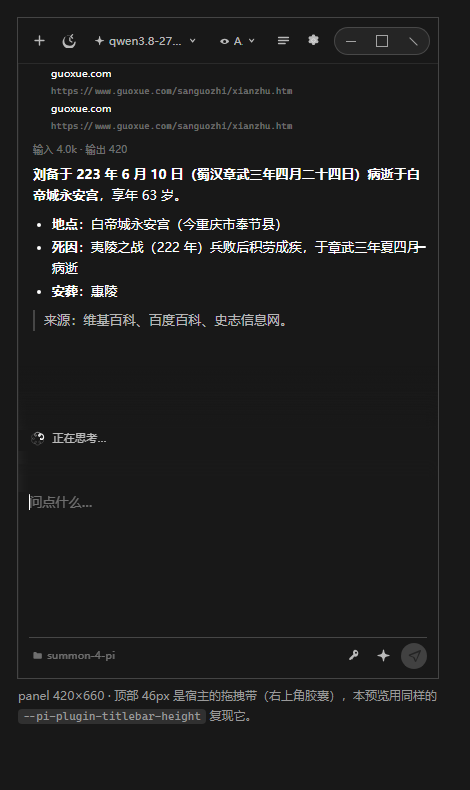
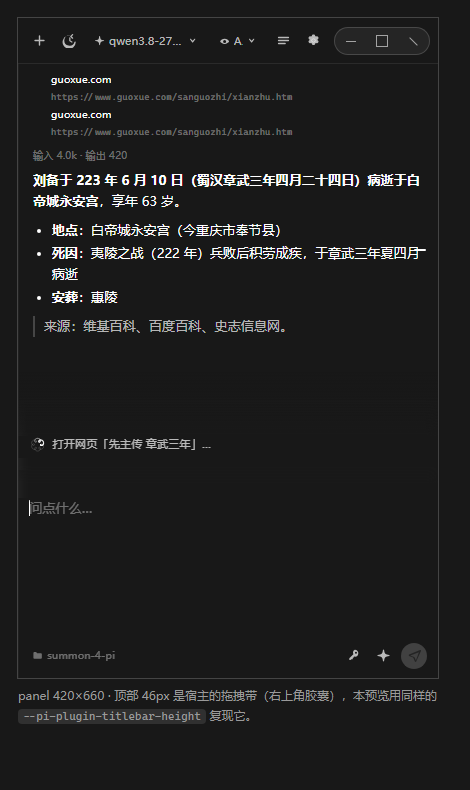
Show what the agent is doing while it runs, not just 'thinking'
Agent mode runs in the main window, but the widget had only a generic status line:
during a tool call it said '正在思考…' and the timeline drew the running tool as if
it had already finished.

Three fixes, in order of what the user sees:

- statusline now names the action: '正在调用 tavily-search：<args>…' from the live
  tool row, or '正在思考：<latest thinking snippet>…' when only reasoning has landed.
  When a tool sits unchanged past 20s it says where the approval card is, because
  that card exists only in the main window and the plugin has no way to list or
  answer pending approvals (agent/askTool/resolve answers, it cannot enumerate).
- stepsFromMessages kept the tool status verbatim instead of collapsing everything
  that is not an error into success, so a tool_start row renders as running: primary
  label, accent marker, '正在调用 · <args>'.
- traceStepKey gave every live step the key 'live', so a running tool and the
  thinking row above it collided and overwrote each other in the keyed diff. That is
  the 'the thinking row disappeared when the tool started' report. The key carries
  kind/round/label now.

Live-ness comes from the host writing rows as it goes (tool_start then tool_end),
polled at 400ms while a turn runs and 1.5s when idle - there is no progress event to
subscribe to (the plugin event set is four fixed names, none inside a turn).

Changed region(s): [[0.0596, 0.0911, 0.8936, 0.4253], [0.0596, 0.5468, 0.417, 0.5772], [0.0596, 0.6076, 0.1787, 0.6684]]

diff --git a/plugins/local.summon-chat/renderer/index.html b/plugins/local.summon-chat/renderer/index.html
@@ -1027,6 +1027,10 @@ details.think > .body {
 .trace-step.ok .si { color: var(--text-disabled); }
 .trace-step.err .si { color: var(--error); }
 .trace-step.err .lb { color: var(--error); }
+/* 正在跑的那一行：文字用主色（其余步骤是次要色），一眼能看出「现在卡在这一步」。 */
+.trace-step.running .lb { color: var(--text-primary); }
+.trace-step.running .sub { color: var(--text-secondary); }
+.trace-step.running .si { color: var(--accent); }
 /* 源包 sprite 里的图标是填充型（path 自带 fill="currentColor"），默认会吃 CSS 的
    `color`，跑完一条就整排绿勾，比正文还抢眼。所以这里统一压成与其它图标同一个灰，
    只有出错那一行保留红色。 */
@@ -3080,9 +3084,11 @@ window.PiCurve = { create: create };
 
         var HEARTBEAT_MS = 2000;
         var AGENT_POLL_MS = 1500;
-        // 轮次运行中的节奏。见 renderTranscript 下方 setAgentPollingRate 的说明：
-        // 工具行是「边跑边落盘」的，1.5s 一次会让它们一顿一顿地冒出来。
-        var AGENT_POLL_FAST_MS = 600;
+        // 轮次运行中的节奏。工具行是「边跑边落盘」的，1.5s 一次会让它们一顿一顿地冒出来；
+        // 用户要的是「发送后立刻能看到它在思考 / 在调什么工具」，所以跑着的时候压到 400ms
+        // —— 每次只是一个 `session/get`（read 级、不弹确认框），代价可以接受。
+        // 轮次一停就退回 1.5s，不白烧 CPU。
+        var AGENT_POLL_FAST_MS = 400;
         var PROGRESS_POLL_MS = 500;
 
         // 设计 §12.1 / 档位标签：选项里只放档位词，含义放 title。
@@ -3545,6 +3551,63 @@ window.PiCurve = { create: create };
             $("statusAnim").appendChild(statusSpinner);
           }
         }
+
+        /**
+         * Agent 模式的状态行：**说清楚它此刻在干什么**，而不是一律「正在思考…」。
+         *
+         * 宿主没有把「实时运行状态」给插件（`plugins.broadcastEvent` 的全集只有四个：
+         * appearance / modelChanged / turnEnded / workspace，**没有** turn 内的事件，
+         * 也没有「列出待批授权」的操作）。所以这里用的是宿主**边跑边落盘**的那份
+         * transcript：工具行在 tool_start 就以 `running` 落盘、tool_end 再补结果
+         * （`renderKeeyed` 的注释里记着这条）。刷新够快时，它就是实时的。
+         *
+         * 三个信息：最近的思考片段、正在调用的工具、以及「可能正在等授权」。
+         */
+        function renderAgentRunningStatus(t) {
+          var msgs = (t && t.messages) || [];
+          var steps = stepsFromMessages(msgs, null, true);
+          var last = steps.length ? steps[steps.length - 1] : null;
+          var stalledMs = Date.now() - (agent.lastChangeAt || Date.now());
+
+          if (last && last.status === "running" && last.kind === "tool") {
+            var name = last.label || "工具";
+            // 时间线那一行的 sub 已经带了「正在调用 · 」前缀，这里只取参数部分，
+            // 免得拼出「正在调用 X：正在调用 · …」。
+            var argText = String(last.sub || "").replace(/^正在调用\s*·\s*/, "").replace(/^正在调用…$/, "");
+            // 停留超过 20s 且一行都没新增：最可能的原因是宿主要在**主窗口**弹授权卡片，
+            // 而那张卡片悬浮窗看不到、也答不了。与其让它看起来卡死，不如直接指路。
+            if (stalledMs > 20000) {
+              setStatus("「" + name + "」还没有结果 —— 如果主窗口弹出了授权卡片，去那里点允许（悬浮窗看不到那张卡片）");
+            } else {
+              setStatus("正在调用 " + name + (argText ? "：" + argText.slice(0, 60) : "") + "…");
+            }
+            return;
+          }
+          if (last && last.status === "running" && last.kind === "search") {
+            setStatus(last.label ? last.label + "…" : "正在联网检索…");
+            return;
+          }
+          // 还没有工具、只有思考（或者连思考都还没落盘）。
+          var thinking = lastThinkingText(msgs);
+          if (thinking) {
+            setStatus("正在思考：" + thinking.slice(0, 80) + (thinking.length > 80 ? "…" : ""));
+            return;
+          }
+          setStatus(stalledMs > 45000
+            ? "仍在进行。若长时间无变化，可能是在等主窗口的操作，或这一轮的输出还没落盘"
+            : "Agent 正在思考…");
+        }
+
+        /** 最新一条思考文本（宿主把 thinking 放在同一条消息里）。 */
+        function lastThinkingText(messages) {
+          for (var i = messages.length - 1; i >= 0; i--) {
+            var m = messages[i];
+            if (m && typeof m.thinking === "string" && m.thinking) {
+              return m.thinking.replace(/\s+/g, " ").trim();
+            }
+          }
+          return "";
+        }
         function stopProgress() {
           // 快捷对话的状态行现在由 pollQuickTurn 全权负责（它每 400ms 读插件的
           // 真实相位，并且在拿到结果时收尾），所以这里只剩一个幂等的收尾动作。
@@ -4006,7 +4069,7 @@ window.PiCurve = { create: create };
         }
         /**
          * 一行步骤。`openIds` 是这一组上次渲染时被展开的行 —— 重画时把展开状态
-         * 还回去，否则每 0.6s 一次轮询都会把用户刚点开的那一行合上。
+         * 还回去，否则每 0.4s 一次轮询都会把用户刚点开的那一行合上。
          * `marker` 是**复用的加载动效节点**：正在跑的那一行换行时把同一个节点
          * 搬过去，动画不会从头开始。
          */
@@ -4096,9 +4159,21 @@ window.PiCurve = { create: create };
          * 其余步骤用「语义 + 轮次」做键 —— **不能用 label**：思考那一行的 label
          * 就是内容摘要，内容一变键就变，用户刚展开的那一行会被合上。
          */
+        /**
+         * 步骤的稳定键 —— 重画时用它把展开状态还回去。
+         *
+         * ⚠ `step.live` 不能一律返回 "live"：一轮里会有**很多** live 步骤
+         * （当前在跑的思考、正在调用的工具…），它们会撞在同一个键上，
+         * 于是 keyed 渲染把它们当成同一条互相覆盖 —— 表现就是「正在调用工具时，
+         * 思考那一行被工具那行顶掉」。带上 kind / round / 标签才唯一。
+         */
         function traceStepKey(step) {
-          if (step.live) return "live";
-          return [step.kind, step.round == null ? "" : step.round, step.sub || ""].join("~");
+          return [
+            step.live ? "live" : "step",
+            step.kind || "",
+            step.round == null ? "" : step.round,
+            step.label || "",
+          ].join("~");
         }
         /**
          * 把一次提问处理的全部痕迹拼成一条可折叠的时间线。
@@ -4169,10 +4244,19 @@ window.PiCurve = { create: create };
               if (t.durationMs) sub = (sub ? sub + " · " : "") + formatDuration(t.durationMs);
               steps.push({
                 kind: "tool",
-                status: t.status === "error" || t.status === "denied" ? "error" : "success",
+                // ⚠ 以前这里只有 error/denied → error、其余 → success，所以**正在调用**
+                // 的工具会被画成「已完成」。宿主的 transcript 在 tool_start 就以
+                // `running` 落盘、tool_end 再补结果，这个状态必须原样保留，
+                // 否则用户看到的是「已经跑完了」而其实还在等（等授权时尤其误导）。
+                status: t.status === "error" || t.status === "denied" ? "error"
+                  : (t.status === "running" ? "running" : "success"),
                 tookMs: t.durationMs || 0,
                 label: t.name || "工具",
-                sub: sub,
+                // 正在跑的行说「正在调用」，不留白让人以为卡住了（状态行另外还会说一次，
+                // 那是它自己的句子，两者不重复）。
+                sub: t.status === "running"
+                  ? (sub ? "正在调用 · " + sub : "正在调用…")
+                  : sub,
                 args: t.args, result: t.result, urls: urls.slice(0, 8),
               });
             }
@@ -5369,12 +5453,9 @@ window.PiCurve = { create: create };
               setAgentPollingRate(status === "running");
               if (status === "running") {
                 // 悬浮窗看不到也答不了宿主的授权卡片（插件事件目录里没有权限事件，
-                // 也没有「列出待批请求」的操作），所以长时间没变化时明确告诉用户
-                // 该去哪儿处理，而不是让它看起来只是卡住了。
-                var stalled = Date.now() - (agent.lastChangeAt || Date.now());
-                setStatus(stalled > 45000
-                  ? "仍在进行。若长时间无变化，可能在等主窗口的授权卡片 —— 可在 ☰ 里把「权限模式」改成「允许编辑」或「全自动」"
-                  : "正在思考…");
+                // 也没有「列出待批请求」的操作），所以状态行要说清**此刻在干什么**，
+                // 并在疑似等授权时明确指路 —— 见 renderAgentRunningStatus。
+                renderAgentRunningStatus(res.transcript);
               } else if (!busy) setStatus("");
             })
             .catch(function () {});

diff --git a/plugins/local.summon-chat/renderer/renderer.template.html b/plugins/local.summon-chat/renderer/renderer.template.html
@@ -576,6 +576,10 @@ details.think > .body {
 .trace-step.ok .si { color: var(--text-disabled); }
 .trace-step.err .si { color: var(--error); }
 .trace-step.err .lb { color: var(--error); }
+/* 正在跑的那一行：文字用主色（其余步骤是次要色），一眼能看出「现在卡在这一步」。 */
+.trace-step.running .lb { color: var(--text-primary); }
+.trace-step.running .sub { color: var(--text-secondary); }
+.trace-step.running .si { color: var(--accent); }
 /* 源包 sprite 里的图标是填充型（path 自带 fill="currentColor"），默认会吃 CSS 的
    `color`，跑完一条就整排绿勾，比正文还抢眼。所以这里统一压成与其它图标同一个灰，
    只有出错那一行保留红色。 */
@@ -895,9 +899,11 @@ __ICONS__
 
         var HEARTBEAT_MS = 2000;
         var AGENT_POLL_MS = 1500;
-        // 轮次运行中的节奏。见 renderTranscript 下方 setAgentPollingRate 的说明：
-        // 工具行是「边跑边落盘」的，1.5s 一次会让它们一顿一顿地冒出来。
-        var AGENT_POLL_FAST_MS = 600;
+        // 轮次运行中的节奏。工具行是「边跑边落盘」的，1.5s 一次会让它们一顿一顿地冒出来；
+        // 用户要的是「发送后立刻能看到它在思考 / 在调什么工具」，所以跑着的时候压到 400ms
+        // —— 每次只是一个 `session/get`（read 级、不弹确认框），代价可以接受。
+        // 轮次一停就退回 1.5s，不白烧 CPU。
+        var AGENT_POLL_FAST_MS = 400;
         var PROGRESS_POLL_MS = 500;
 
         // 设计 §12.1 / 档位标签：选项里只放档位词，含义放 title。
@@ -1360,6 +1366,63 @@ __ICONS__
             $("statusAnim").appendChild(statusSpinner);
           }
         }
+
+        /**
+         * Agent 模式的状态行：**说清楚它此刻在干什么**，而不是一律「正在思考…」。
+         *
+         * 宿主没有把「实时运行状态」给插件（`plugins.broadcastEvent` 的全集只有四个：
+         * appearance / modelChanged / turnEnded / workspace，**没有** turn 内的事件，
+         * 也没有「列出待批授权」的操作）。所以这里用的是宿主**边跑边落盘**的那份
+         * transcript：工具行在 tool_start 就以 `running` 落盘、tool_end 再补结果
+         * （`renderKeeyed` 的注释里记着这条）。刷新够快时，它就是实时的。
+         *
+         * 三个信息：最近的思考片段、正在调用的工具、以及「可能正在等授权」。
+         */
+        function renderAgentRunningStatus(t) {
+          var msgs = (t && t.messages) || [];
+          var steps = stepsFromMessages(msgs, null, true);
+          var last = steps.length ? steps[steps.length - 1] : null;
+          var stalledMs = Date.now() - (agent.lastChangeAt || Date.now());
+
+          if (last && last.status === "running" && last.kind === "tool") {
+            var name = last.label || "工具";
+            // 时间线那一行的 sub 已经带了「正在调用 · 」前缀，这里只取参数部分，
+            // 免得拼出「正在调用 X：正在调用 · …」。
+            var argText = String(last.sub || "").replace(/^正在调用\s*·\s*/, "").replace(/^正在调用…$/, "");
+            // 停留超过 20s 且一行都没新增：最可能的原因是宿主要在**主窗口**弹授权卡片，
+            // 而那张卡片悬浮窗看不到、也答不了。与其让它看起来卡死，不如直接指路。
+            if (stalledMs > 20000) {
+              setStatus("「" + name + "」还没有结果 —— 如果主窗口弹出了授权卡片，去那里点允许（悬浮窗看不到那张卡片）");
+            } else {
+              setStatus("正在调用 " + name + (argText ? "：" + argText.slice(0, 60) : "") + "…");
+            }
+            return;
+          }
+          if (last && last.status === "running" && last.kind === "search") {
+            setStatus(last.label ? last.label + "…" : "正在联网检索…");
+            return;
+          }
+          // 还没有工具、只有思考（或者连思考都还没落盘）。
+          var thinking = lastThinkingText(msgs);
+          if (thinking) {
+            setStatus("正在思考：" + thinking.slice(0, 80) + (thinking.length > 80 ? "…" : ""));
+            return;
+          }
+          setStatus(stalledMs > 45000
+            ? "仍在进行。若长时间无变化，可能是在等主窗口的操作，或这一轮的输出还没落盘"
+            : "Agent 正在思考…");
+        }
+
+        /** 最新一条思考文本（宿主把 thinking 放在同一条消息里）。 */
+        function lastThinkingText(messages) {
+          for (var i = messages.length - 1; i >= 0; i--) {
+            var m = messages[i];
+            if (m && typeof m.thinking === "string" && m.thinking) {
+              return m.thinking.replace(/\s+/g, " ").trim();
+            }
+          }
+          return "";
+        }
         function stopProgress() {
           // 快捷对话的状态行现在由 pollQuickTurn 全权负责（它每 400ms 读插件的
           // 真实相位，并且在拿到结果时收尾），所以这里只剩一个幂等的收尾动作。
@@ -1821,7 +1884,7 @@ __ICONS__
         }
         /**
          * 一行步骤。`openIds` 是这一组上次渲染时被展开的行 —— 重画时把展开状态
-         * 还回去，否则每 0.6s 一次轮询都会把用户刚点开的那一行合上。
+         * 还回去，否则每 0.4s 一次轮询都会把用户刚点开的那一行合上。
          * `marker` 是**复用的加载动效节点**：正在跑的那一行换行时把同一个节点
          * 搬过去，动画不会从头开始。
          */
@@ -1911,9 +1974,21 @@ __ICONS__
          * 其余步骤用「语义 + 轮次」做键 —— **不能用 label**：思考那一行的 label
          * 就是内容摘要，内容一变键就变，用户刚展开的那一行会被合上。
          */
+        /**
+         * 步骤的稳定键 —— 重画时用它把展开状态还回去。
+         *
+         * ⚠ `step.live` 不能一律返回 "live"：一轮里会有**很多** live 步骤
+         * （当前在跑的思考、正在调用的工具…），它们会撞在同一个键上，
+         * 于是 keyed 渲染把它们当成同一条互相覆盖 —— 表现就是「正在调用工具时，
+         * 思考那一行被工具那行顶掉」。带上 kind / round / 标签才唯一。
+         */
         function traceStepKey(step) {
-          if (step.live) return "live";
-          return [step.kind, step.round == null ? "" : step.round, step.sub || ""].join("~");
+          return [
+            step.live ? "live" : "step",
+            step.kind || "",
+            step.round == null ? "" : step.round,
+            step.label || "",
+          ].join("~");
         }
         /**
          * 把一次提问处理的全部痕迹拼成一条可折叠的时间线。
@@ -1984,10 +2059,19 @@ __ICONS__
               if (t.durationMs) sub = (sub ? sub + " · " : "") + formatDuration(t.durationMs);
               steps.push({
                 kind: "tool",
-                status: t.status === "error" || t.status === "denied" ? "error" : "success",
+                // ⚠ 以前这里只有 error/denied → error、其余 → success，所以**正在调用**
+                // 的工具会被画成「已完成」。宿主的 transcript 在 tool_start 就以
+                // `running` 落盘、tool_end 再补结果，这个状态必须原样保留，
+                // 否则用户看到的是「已经跑完了」而其实还在等（等授权时尤其误导）。
+                status: t.status === "error" || t.status === "denied" ? "error"
+                  : (t.status === "running" ? "running" : "success"),
                 tookMs: t.durationMs || 0,
                 label: t.name || "工具",
-                sub: sub,
+                // 正在跑的行说「正在调用」，不留白让人以为卡住了（状态行另外还会说一次，
+                // 那是它自己的句子，两者不重复）。
+                sub: t.status === "running"
+                  ? (sub ? "正在调用 · " + sub : "正在调用…")
+                  : sub,
                 args: t.args, result: t.result, urls: urls.slice(0, 8),
               });
             }
@@ -3184,12 +3268,9 @@ __ICONS__
               setAgentPollingRate(status === "running");
               if (status === "running") {
                 // 悬浮窗看不到也答不了宿主的授权卡片（插件事件目录里没有权限事件，
-                // 也没有「列出待批请求」的操作），所以长时间没变化时明确告诉用户
-                // 该去哪儿处理，而不是让它看起来只是卡住了。
-                var stalled = Date.now() - (agent.lastChangeAt || Date.now());
-                setStatus(stalled > 45000
-                  ? "仍在进行。若长时间无变化，可能在等主窗口的授权卡片 —— 可在 ☰ 里把「权限模式」改成「允许编辑」或「全自动」"
-                  : "正在思考…");
+                // 也没有「列出待批请求」的操作），所以状态行要说清**此刻在干什么**，
+                // 并在疑似等授权时明确指路 —— 见 renderAgentRunningStatus。
+                renderAgentRunningStatus(res.transcript);
               } else if (!busy) setStatus("");
             })
             .catch(function () {});
